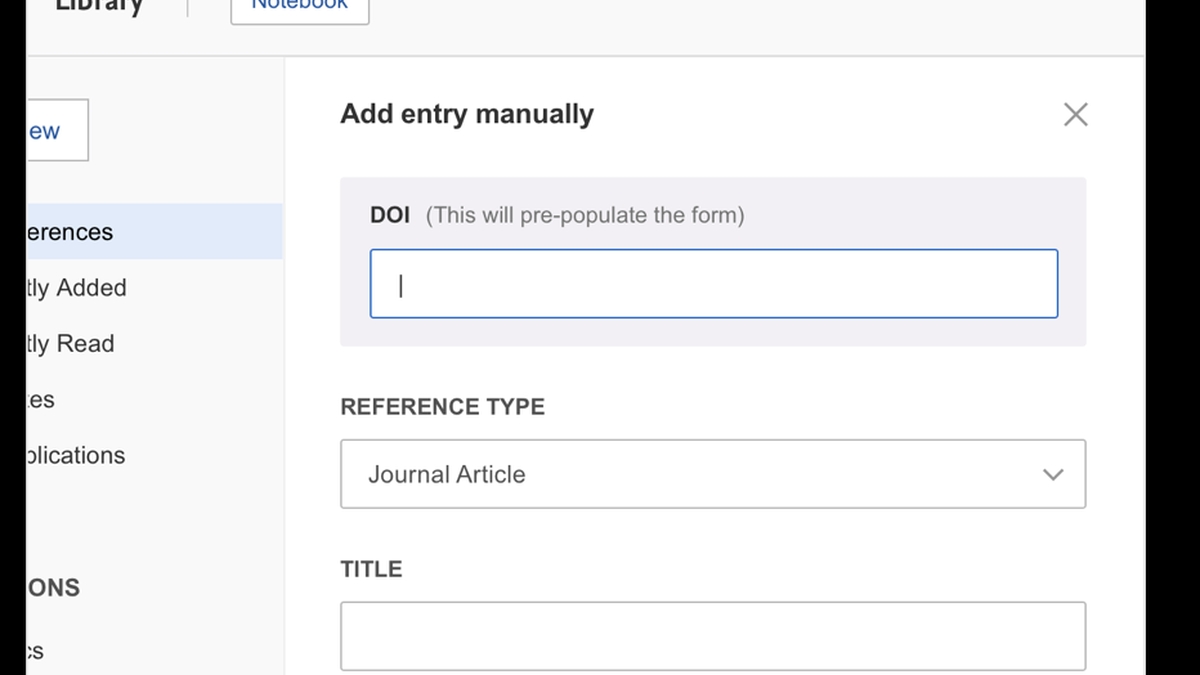
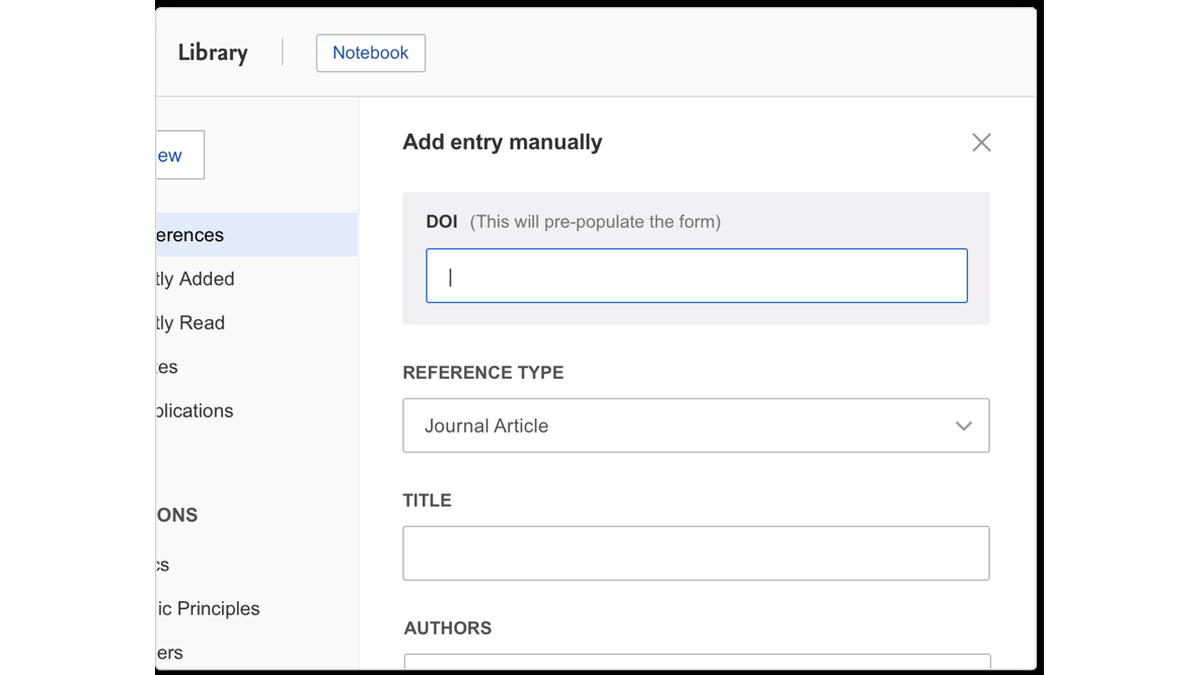
feat: screenshot pada slide 5-6 dan rapikan tipografi

diff --git a/build.py b/build.py
@@ -41,6 +41,11 @@ def clipped(s,f,x,y,w,h,alt):
     iw,ih=struct.unpack('>II',head[16:24])
     if not abs(iw/ih-w/h)<0.01:raise ValueError(f'{f}: rasio {iw/ih:.3f} tidak cocok dengan kartu {w/h:.3f}; jangan regangkan mask')
     pic(s,f,x,y,w,alt,h)
+def shot(s,f,x,y,w,alt):
+    h=w*9/16
+    box(s,x-0.08,y-0.08,w+0.16,h+0.16,'FFFFFF',0.4,name='bingkai')
+    clipped(s,f,x,y,w,h,alt)
+    return h
 def notes(s,t):add(s,'notes',text=t)
 def num(s,x,y,d,t,fill,col):
     add(s,'shape',geometry='ellipse',x=cm(x),y=cm(y),width=cm(d),height=cm(d),text=t,size=20,bold='true',color=col,
@@ -118,14 +123,14 @@ s=frame(1,'Tiga komponen utama Mendeley')
 box(s,X0,4.0,10.0,14.0,PC,1.4)
 clipped(s,'mask-05-tiga.png',X0,4.0,10.0,14.0,'Masking angka tiga')
 pic(s,icon('MdLibraryBooks',FLOWER,P,'FFFFFF'),X0+1.2,4.9,3.6,'Ikon Mendeley')
-tx(s,X0+1.0,9.4,8,5.6,'Mendeley adalah aplikasi pengelola referensi dan jejaring akademik. Elsevier mengembangkannya.',22,ON_PC,True)
-tx(s,X0+1.0,15.0,8,2.6,'Pengembangan Mendeley Desktop dihentikan; Reference Manager menjadi fokus.',16,ON_PC)
-for k,(ic,hd,bd) in enumerate([('MdLibraryBooks','Mendeley Reference Manager','Pustaka pribadi untuk menyimpan, mengelompokkan, dan menganotasi PDF jurnal.'),
- ('MdDescription','Mendeley Cite','Add-in Microsoft Word untuk menyisipkan kutipan dan membuat daftar pustaka.'),
- ('MdExtension','Web Importer','Ekstensi peramban untuk menyimpan referensi dari halaman web.')]):
+tx(s,X0+1.0,9.4,8,5.8,'Mendeley adalah aplikasi pengelola referensi dan jejaring akademik. Elsevier mengembangkannya.',20,ON_PC,True)
+tx(s,X0+1.0,15.2,8,2.4,'Mendeley Desktop dihentikan; Reference Manager menjadi fokus.',16,ON_PC)
+for k,(f,hd,bd) in enumerate([('shot-rm-add.png','Mendeley Reference Manager','Pustaka pribadi untuk menyimpan, mengelompokkan, dan menganotasi PDF jurnal.'),
+ ('shot-cite-panel.png','Mendeley Cite','Add-in Microsoft Word untuk menyisipkan kutipan dan membuat daftar pustaka.'),
+ ('shot-web-importer.png','Web Importer','Ekstensi peramban untuk menyimpan referensi dari halaman web.')]):
     y=4.0+k*4.9;box(s,X0+10.8,y,17.2,4.2,CARD,1.2)
-    pic(s,icon(ic,[COOKIE,CLOVER,SQUIRCLE][k],SC,ON_SC),X0+11.5,y+0.8,2.6,hd)
-    tx(s,X0+14.8,y+0.6,12.6,1.2,hd,24,TX,True);tx(s,X0+14.8,y+1.8,12.6,2.3,bd,18,MUT)
+    shot(s,f,X0+11.5,y+0.5,5.6,hd)
+    tx(s,X0+17.5,y+0.4,10.0,1.9,hd,20,TX,True);tx(s,X0+17.5,y+2.1,10.0,2.0,bd,16,MUT)
 tx(s,X0,18.3,20,0.5,'Sumber: Mendeley (n.d.); Mendeley Support (2025).',10,MUT)
 notes(s,'Mendeley dikembangkan Elsevier. Ada tiga komponen: Reference Manager untuk pustaka, Mendeley Cite untuk Word, dan Web Importer untuk peramban. Mendeley Desktop masih tersedia, tetapi pengembangannya sudah dihentikan; Reference Manager menjadi fokus.')
 # 6 apa yang diolah
@@ -133,9 +138,13 @@ s=frame(1,'Apa yang diolah Mendeley')
 box(s,X0,4.0,W,4.6,P,1.4)
 pic(s,icon('MdDescription',SQUIRCLE,PC,ON_PC),X0+1.0,5.0,2.6,'Ikon metadata')
 tx(s,X0+4.4,4.0,W-5.4,4.6,'Mendeley memindahkan metadata referensi ke sitasi dan daftar pustaka. Isi dan ketepatan data tetap diperiksa penulis.',24,'FFFFFF',True,valign='middle')
-card3(s,9.4,8.6,[('MdDescription','Metadata','Judul, penulis, tahun, DOI, dan nama jurnal menjadi bahan sitasi.'),
- ('MdStyle','Gaya sitasi','Mendeley menerapkan gaya yang dipilih, misalnya APA atau IEEE.'),
- ('MdListAlt','Daftar pustaka','Entri disusun otomatis dari metadata dan gaya yang sama.')],[(CARD,SC,ON_SC,TX),(CARD,TC,ON_TC,TX),(CARD,PC,ON_PC,TX)])
+w3=(W-1.6)/3
+for k,(f,hd,bd) in enumerate([('shot-metadata.png','Metadata','Judul, penulis, tahun, DOI, dan nama jurnal menjadi bahan sitasi.'),
+ ('shot-style.png','Gaya sitasi','Mendeley menerapkan gaya yang dipilih, misalnya APA atau IEEE.'),
+ ('shot-bibliography.png','Daftar pustaka','Entri disusun otomatis dari metadata dan gaya yang sama.')]):
+    x=X0+k*(w3+0.8);box(s,x,9.4,w3,8.6,CARD,1.2)
+    shot(s,f,x+0.5,9.9,w3-1.0,hd)
+    tx(s,x+0.8,14.7,w3-1.6,1.2,hd,24,TX,True);tx(s,x+0.8,15.9,w3-1.6,2.0,bd,16,MUT)
 tx(s,X0,18.3,20,0.5,'Sumber: Mendeley Support (2025).',10,MUT)
 notes(s,'Mendeley mengolah metadata menjadi sitasi dan daftar pustaka. Jenis kutipan dan aturan tiap gaya dibahas Kelompok 4; fokus kita pada data yang diolah dan hasil yang dibuat Mendeley.')
 # 7 satu sumber dua keluaran
